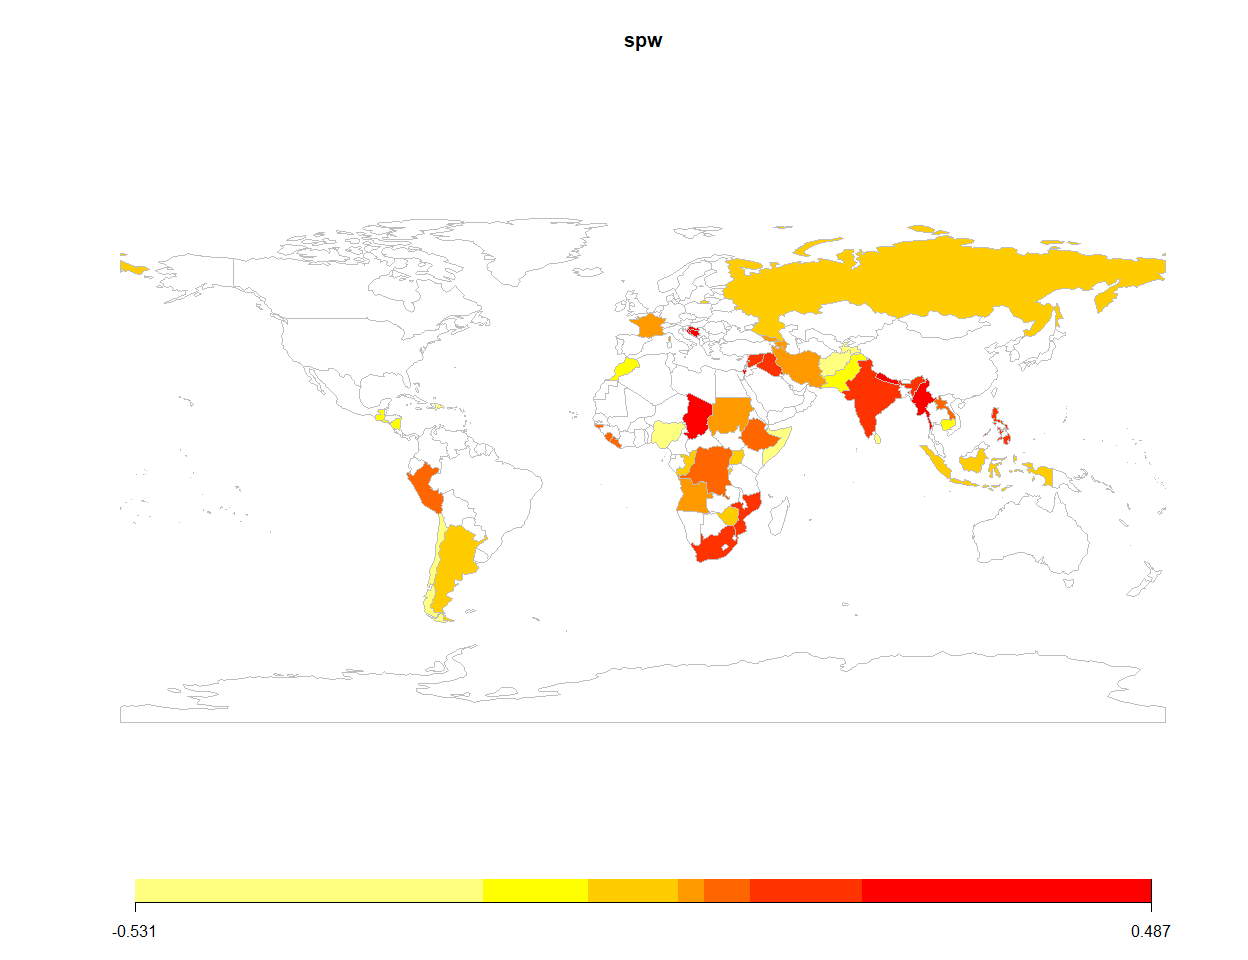
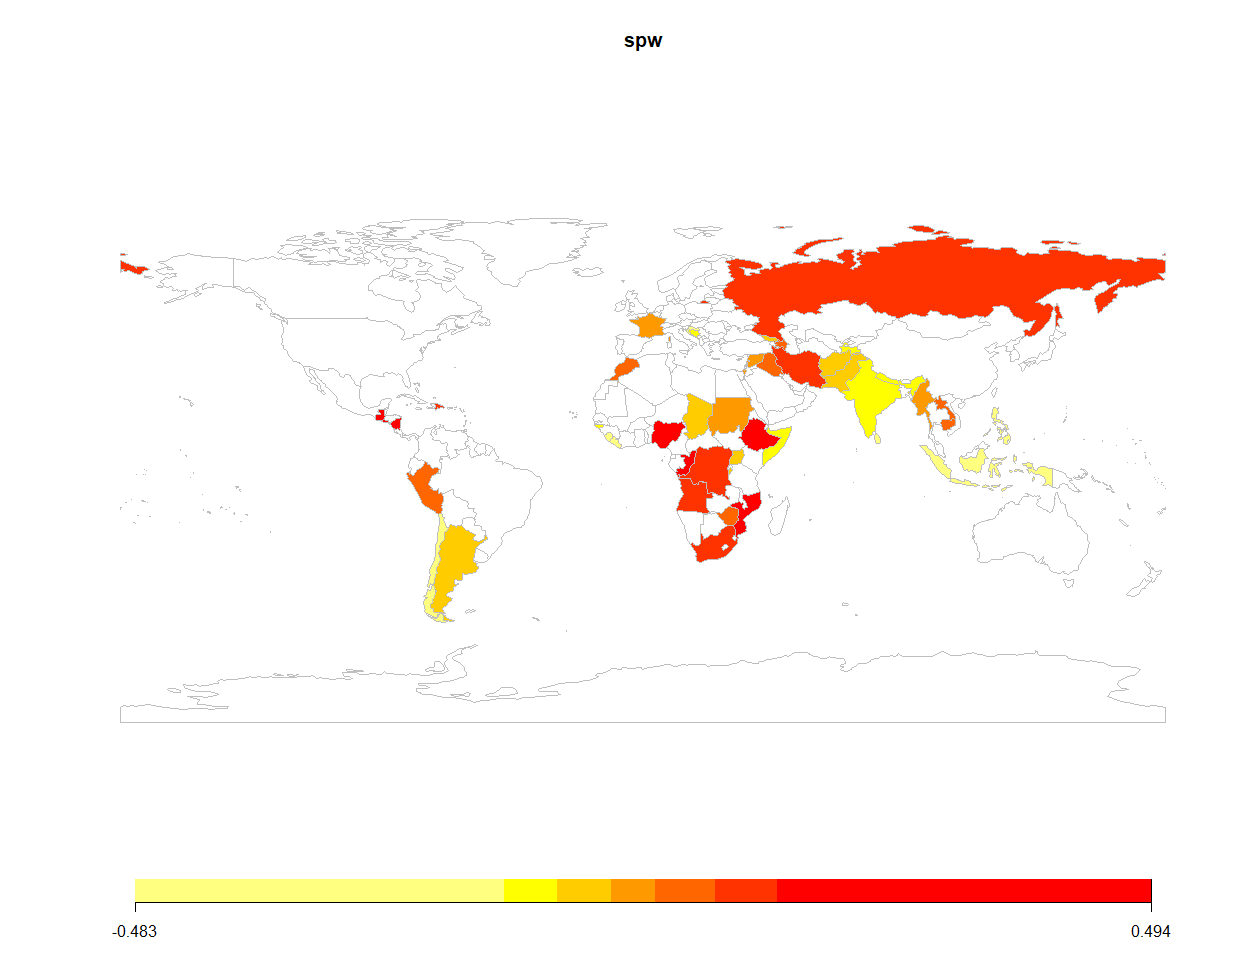
out rr v0.1.3

diff --git a/README.md b/README.md
@@ -88,7 +88,7 @@ library(BayesSPsurv)
 
 ## Data
 walter <- spduration::add_duration(Walter_2015_JCR,"renewed_war", 
-                                   unitID = "ccode", tID = "year", 
+                                   unitID = "id", tID = "year", 
                                    freq = "year", ongoing = FALSE)
 #> Registered S3 method overwritten by 'quantmod':
 #>   method            from
@@ -138,30 +138,30 @@ print(model)
 #> 
 #> 
 #> Duration equation: 
-#>                      Mean        SD   Naive SE Time-series SE
-#> (Intercept)    1.60141888 1.1448040 0.16354342     0.80272094
-#> fhcompor1     -0.83243707 0.6501499 0.09287856     0.14722825
-#> lgdpl         -0.04870232 0.1333731 0.01905329     0.04302189
-#> comprehensive -0.69398735 0.4195981 0.05994259     0.05994259
-#> victory        0.35331950 0.4792104 0.06845862     0.06845862
-#> instabl        0.67978064 0.4613870 0.06591243     0.06591243
-#> intensityln    0.13055810 0.1126945 0.01609922     0.04378209
-#> ethfrac        0.06897016 0.5616709 0.08023870     0.07794973
-#> unpko          0.60998074 0.5093431 0.07276330     0.07276330
+#>                      Mean         SD   Naive SE Time-series SE
+#> (Intercept)    1.12175943 0.72782728 0.10397533     0.20640125
+#> fhcompor1     -0.94228430 0.40918165 0.05845452     0.05293352
+#> lgdpl         -0.01583485 0.09102508 0.01300358     0.03297101
+#> comprehensive -0.66300249 0.31027598 0.04432514     0.04432514
+#> victory        0.25435614 0.46844978 0.06692140     0.06692140
+#> instabl        0.67515125 0.45626742 0.06518106     0.06518106
+#> intensityln    0.16878473 0.08716617 0.01245231     0.04559517
+#> ethfrac       -0.02405502 0.58857859 0.08408266     0.08677714
+#> unpko          0.44344674 0.63423139 0.09060448     0.11244357
 #> 
 #> Inmune equation: 
-#>                   Mean       SD  Naive SE Time-series SE
-#> (Intercept) -0.2289340 3.465822 0.4951174      0.6787334
-#> fhcompor1    0.9479438 5.158081 0.7368687      1.7102805
-#> lgdpl       -3.1313566 3.263457 0.4662081      1.5676348
-#> victory      1.6786139 4.043202 0.5776003      1.2420596
+#>                    Mean       SD  Naive SE Time-series SE
+#> (Intercept) -0.52444626 4.385563 0.6265090      1.0810530
+#> fhcompor1   -0.30397958 4.471833 0.6388332      1.2863354
+#> lgdpl       -1.50327218 1.260961 0.1801372      0.1801372
+#> victory     -0.02088428 2.335731 0.3336758      0.3336758
 
 SPstats(model)
 #> $DIC
-#> [1] 12980.15
+#> [1] -26548.19
 #> 
 #> $Loglik
-#> [1] 27247.49
+#> [1] 18037.57
 
 # ~~~~~~~~~~~~~~~
 # Choropleth Map
@@ -194,7 +194,7 @@ covariates in each of these two stages.
 
 ``` r
 walter <- spduration::add_duration(Walter_2015_JCR,"renewed_war", 
-                                   unitID = "ccode", tID = "year", 
+                                   unitID = "id", tID = "year", 
                                    freq = "year", ongoing = FALSE)
 
 walter$S     <- rep(x = 1:length(unique(walter$ccode)), times = rle(walter$ccode)$lengths)
@@ -283,21 +283,21 @@ print(model)
 #> 
 #> 
 #> Duration equation: 
-#>                     Mean         SD   Naive SE Time-series SE
-#> (Intercept)    2.3748909 1.38333158 0.19761880     0.64033808
-#> fhcompor1     -0.9225435 0.62636551 0.08948079     0.13530712
-#> lgdpl         -0.1006686 0.12871863 0.01838838     0.05205719
-#> comprehensive -0.8376250 0.40244531 0.05749219     0.05749219
-#> victory        0.3702996 0.44200695 0.06314385     0.06314385
-#> instabl        0.8792065 0.55504640 0.07929234     0.07929234
-#> intensityln    0.1185066 0.09089489 0.01298498     0.02403753
-#> ethfrac       -0.3734596 0.71246591 0.10178084     0.13237277
-#> unpko          0.5947845 0.60326265 0.08618038     0.08618038
+#>                      Mean        SD   Naive SE Time-series SE
+#> (Intercept)    1.41645165 0.7630170 0.10900243     0.25754335
+#> fhcompor1     -0.73118837 0.4446105 0.06351579     0.06351579
+#> lgdpl         -0.04603712 0.1262530 0.01803614     0.05548108
+#> comprehensive -0.64177732 0.3831055 0.05472936     0.04350588
+#> victory        0.45487990 0.3810381 0.05443401     0.05443401
+#> instabl        0.66023159 0.4724143 0.06748776     0.06748776
+#> intensityln    0.17466335 0.1069724 0.01528177     0.04389407
+#> ethfrac       -0.01717105 0.5198537 0.07426481     0.07426481
+#> unpko          0.44262641 0.5719971 0.08171387     0.08171387
 #> 
 #> Inmune equation: 
-#>                    Mean       SD  Naive SE Time-series SE
-#> (Intercept)  0.01876845 2.163802 0.3091146      0.4111774
-#> fhcompor1    1.25950280 3.002383 0.4289118      0.6366892
-#> lgdpl       -1.86099795 1.670992 0.2387131      0.2986771
-#> victory     -0.24415725 2.435839 0.3479770      0.3479770
+#>                   Mean       SD  Naive SE Time-series SE
+#> (Intercept) -1.3166061 4.668150 0.6668786      1.5578413
+#> fhcompor1   -2.5921085 5.214286 0.7448980      0.5620853
+#> lgdpl       -5.3924239 4.929649 0.7042356      1.5028341
+#> victory     -0.1413459 6.253230 0.8933186      2.5384936
 ```

diff --git a/NEWS.md b/NEWS.md
@@ -2,7 +2,7 @@
 
 # BayesSPsurv 0.1.3
 
-* parameter ini.gamma, ini.gamma, rho, lambda, ini.W and ini.V   are added to `spatialSPsurv()`, `exchangeSPsurv()` and `pooledSPsurv()`
+* parameter ini.gamma, ini.gamma, ini.W and ini.V   are added to `spatialSPsurv()`, `exchangeSPsurv()` and `pooledSPsurv()`
 * parameter prop.varV and prop.varW are added to `spatialSPsurv()` and `exchangeSPsurv()`
 * progress bar in `spatialSPsurv()`, `exchangeSPsurv()` and `pooledSPsurv()`
 
